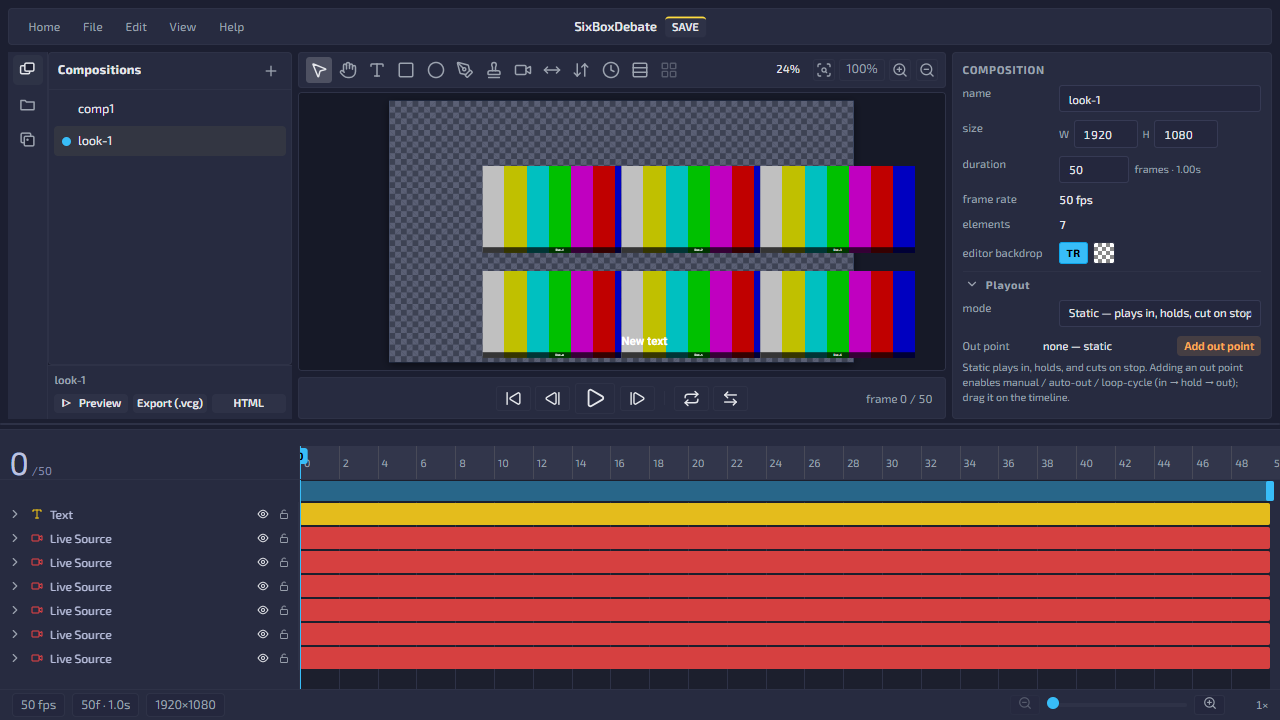
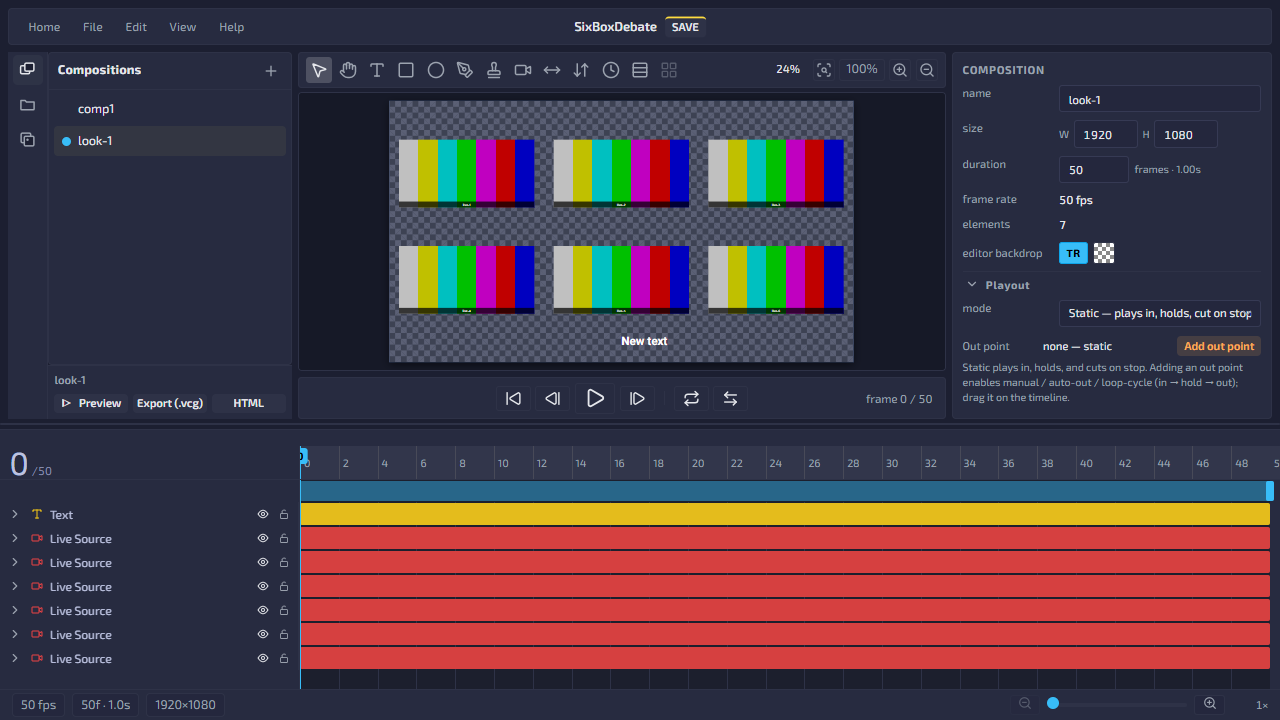
test(designer): the CI red on 2ee11fe5, fixed at the cause — deterministic look geometry
The e2e run on 2ee11fe5 failed two specs, both this session's. (1) looks.spec placed
plates by viewport-relative canvas clicks; on CI the fractions mapped to overlapping
scene rects, the preflight refused the export with a window.alert the fixture
auto-dismisses, and waitForEvent('download') timed out with nothing saying why — the
same silent shape as the one local timeout that was too generously waved off. The 6-box
grid is now WRITTEN in scene coordinates through the Transform panel (560x280 at a real
3x2), which is deterministic across viewports and adds six more panel-to-canvas writes
of the D-154 class; a positive control asserts the refusal family is silent before the
export, so a future block fails legibly instead of as a bare timeout. (2) icon-pack's
toolbar pin lists the exact Canvas tools buttons and predates the multi-frame button;
updated for the deliberately changed surface — a test changed because its subject
changed, said out loud. Both specs green locally (9/9); screenshots regenerated with
the true grid. The handoff carries the correction at the top.

Changed region(s): [[0.3125, 0.1833, 0.7188, 0.5194]]

diff --git a/apps/designer/tests/e2e/looks.spec.ts b/apps/designer/tests/e2e/looks.spec.ts
@@ -20,18 +20,23 @@ import { expect, test } from './fixtures/designer.js';
 test.setTimeout(300_000);
 
 /**
- * The six roughly-3×2 drop points, as FRACTIONS of the canvas surface — the canvas is
- * zoom-scaled (≈24% for 1080p), so absolute pixel points can land outside it and a
- * position-click then waits forever.
+ * 🔴 The 6-box grid in SCENE coordinates, WRITTEN through the Transform panel after each
+ * plate is placed. The click position only creates the element; relying on it for the
+ * final geometry made the spec viewport-dependent — on CI the fraction-derived clicks
+ * landed plates overlapping, the preflight refused the export with a `window.alert` the
+ * fixture auto-dismisses, and the download wait timed out with nothing saying why.
+ * Deterministic authored geometry is also six more panel→canvas writes (the D-154 class).
  */
-const GRID_FRACTIONS = [
-  [0.2, 0.25],
-  [0.5, 0.25],
-  [0.8, 0.25],
-  [0.2, 0.65],
-  [0.5, 0.65],
-  [0.8, 0.65],
+const GRID_SCENE = [
+  { x: 40, y: 160 },
+  { x: 680, y: 160 },
+  { x: 1320, y: 160 },
+  { x: 40, y: 600 },
+  { x: 680, y: 600 },
+  { x: 1320, y: 600 },
 ] as const;
+const PLATE_W = 560;
+const PLATE_H = 280;
 
 test('the 6-box debate: group → six sources → two looks → the selector switches the canvas', async ({
   app,
@@ -66,14 +71,23 @@ test('the 6-box debate: group → six sources → two looks → the selector swi
   // ── look-1: the 6-box, authored freely as a full sub-scene ────────────────
   await app.inspector.getByRole('button', { name: '+ Look' }).click();
   await app.inspector.getByRole('button', { name: 'Edit contents of look-1' }).click();
-  for (const [i, [fx, fy]] of GRID_FRACTIONS.entries()) {
-    await app.addLiveSource(at(fx, fy));
+  const writeField = async (name: string, value: number): Promise<void> => {
+    const field = app.inspector.getByRole('spinbutton', { name, exact: true });
+    await field.fill(String(value));
+    await field.press('Enter');
+  };
+  for (const [i, cell] of GRID_SCENE.entries()) {
+    await app.addLiveSource(at(0.4, 0.4));
     // The plate REFERENCES a declared source through the picker — with a group in the
     // project there is no free-text routeKey control at all.
     await expect(app.liveSourceIdInput).toHaveCount(0);
     await app.inspector
       .getByRole('combobox', { name: 'source' })
       .selectOption(`live-${String(i + 1)}`);
+    await writeField('X position', cell.x);
+    await writeField('Y position', cell.y);
+    await writeField('Width', PLATE_W);
+    await writeField('Height', PLATE_H);
     await app.deselect();
   }
   await app.addTextElement(at(0.5, 0.9));
@@ -87,11 +101,10 @@ test('the 6-box debate: group → six sources → two looks → the selector swi
   await app.addLiveSource(at(0.4, 0.4));
   await app.inspector.getByRole('combobox', { name: 'source' }).selectOption('live-1');
 
-  // §6.6 — panel→canvas coherence, asserted by WRITING: set X to a known value and
+  // §6.6 — panel→canvas coherence, asserted by WRITING: set X/Y to known values and
   // require the RENDERED box to land there. A screenshot cannot witness this.
-  const xField = app.inspector.getByRole('spinbutton', { name: 'X position' });
-  await xField.fill('320');
-  await xField.press('Enter');
+  await writeField('X position', 320);
+  await writeField('Y position', 180);
   const soloPlate = app.canvasFrame.locator('[data-cg-live-source="live-1"]');
   const stage = app.canvasFrame.locator('.cg-stage');
   const stageBox = await stage.boundingBox();
@@ -104,6 +117,9 @@ test('the 6-box debate: group → six sources → two looks → the selector swi
 
   // ── back home: the selector switches, and the canvas VISIBLY changes ──────
   await app.openComposition(homeName);
+  // The POSITIVE CONTROL for the export below: the refusal family must be silent, or
+  // the export's alert-and-no-download failure mode reads as a bare timeout.
+  await expect(app.inspector.getByText('export will refuse')).toHaveCount(0);
   const picker = app.page.getByLabel('Active look');
   await expect(picker).toBeVisible();
 

diff --git a/apps/designer/tests/e2e/icon-pack.spec.ts b/apps/designer/tests/e2e/icon-pack.spec.ts
@@ -73,6 +73,9 @@ test.describe('D-092 — shared vector Icon', () => {
       'Sequence',
       'Clock',
       'Repeater',
+      // LOOKS phase 2 (§14) — a DIRECT ACTION, not a placement tool: creates the
+      // multi-frame group. Deliberately last, after both tool groups.
+      'Add multi-frame group',
     ]);
   });
 

diff --git a/docs/handoff/2026-08-20-session-bb.md b/docs/handoff/2026-08-20-session-bb.md
@@ -13,8 +13,16 @@
   `E2E (Playwright)` job RAN (10 m 51 s). Attempt 1 was an apt-mirror stall killed at
   `timeout-minutes: 20` **before Playwright started** — infrastructure, not the suite. Recorded
   in `tasks.md` §1b.
-- **BB's own `gate:e2e`** runs on the final push — the session report quotes the run URL and its
-  conclusion; if you are reading this before it completed, check that run before building on top.
+- 🔴 **CORRECTION (same evening): the run on `2ee11fe5` was RED** —
+  <https://github.com/yasermostafaee/cg/actions/runs/32288446144>, two failures, both this
+  session's and both fixed in the follow-up commit that carries this note: (1) `looks.spec`
+  placed plates by viewport-relative clicks, so on CI they landed overlapping, the preflight
+  refused the export with an alert the fixture auto-dismisses, and the download wait timed out —
+  the grid is now WRITTEN in scene coordinates through the Transform panel (deterministic, and
+  six more D-154-class panel→canvas writes); (2) `icon-pack.spec`'s toolbar pin predates the
+  multi-frame button — updated for the deliberately changed surface. **BB's `gate:e2e` is
+  therefore discharged only by the run on the FIX commit or later** — the session report quotes
+  it; check it before building on top.
 - **The single next action:** author the real 6-box debate template by hand (the walk below), then
   phase 3 — stage D's reconcile on the look carrier (`tasks.md` §1b), and later P2.DEL (the A′
   CODE deletion — re-scoped, still open).
